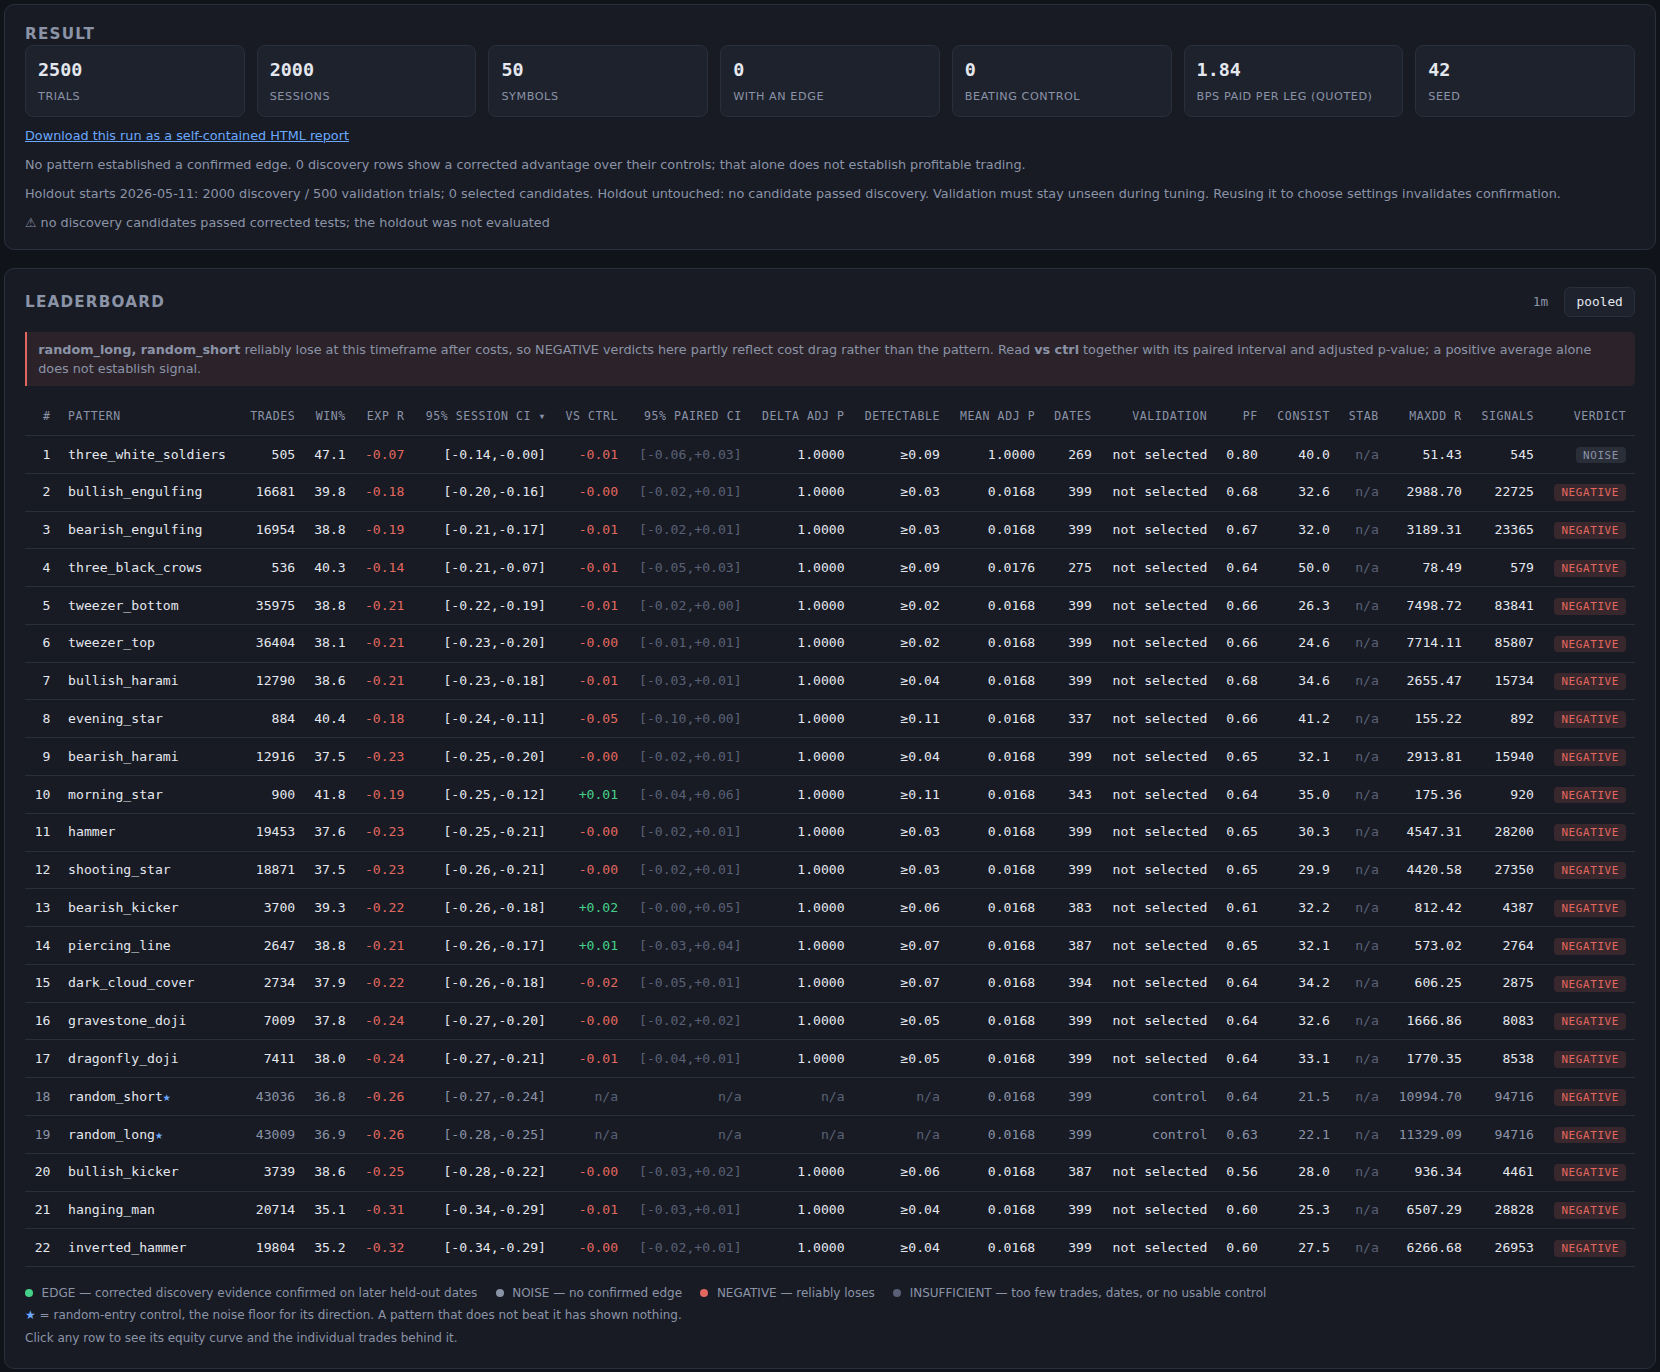
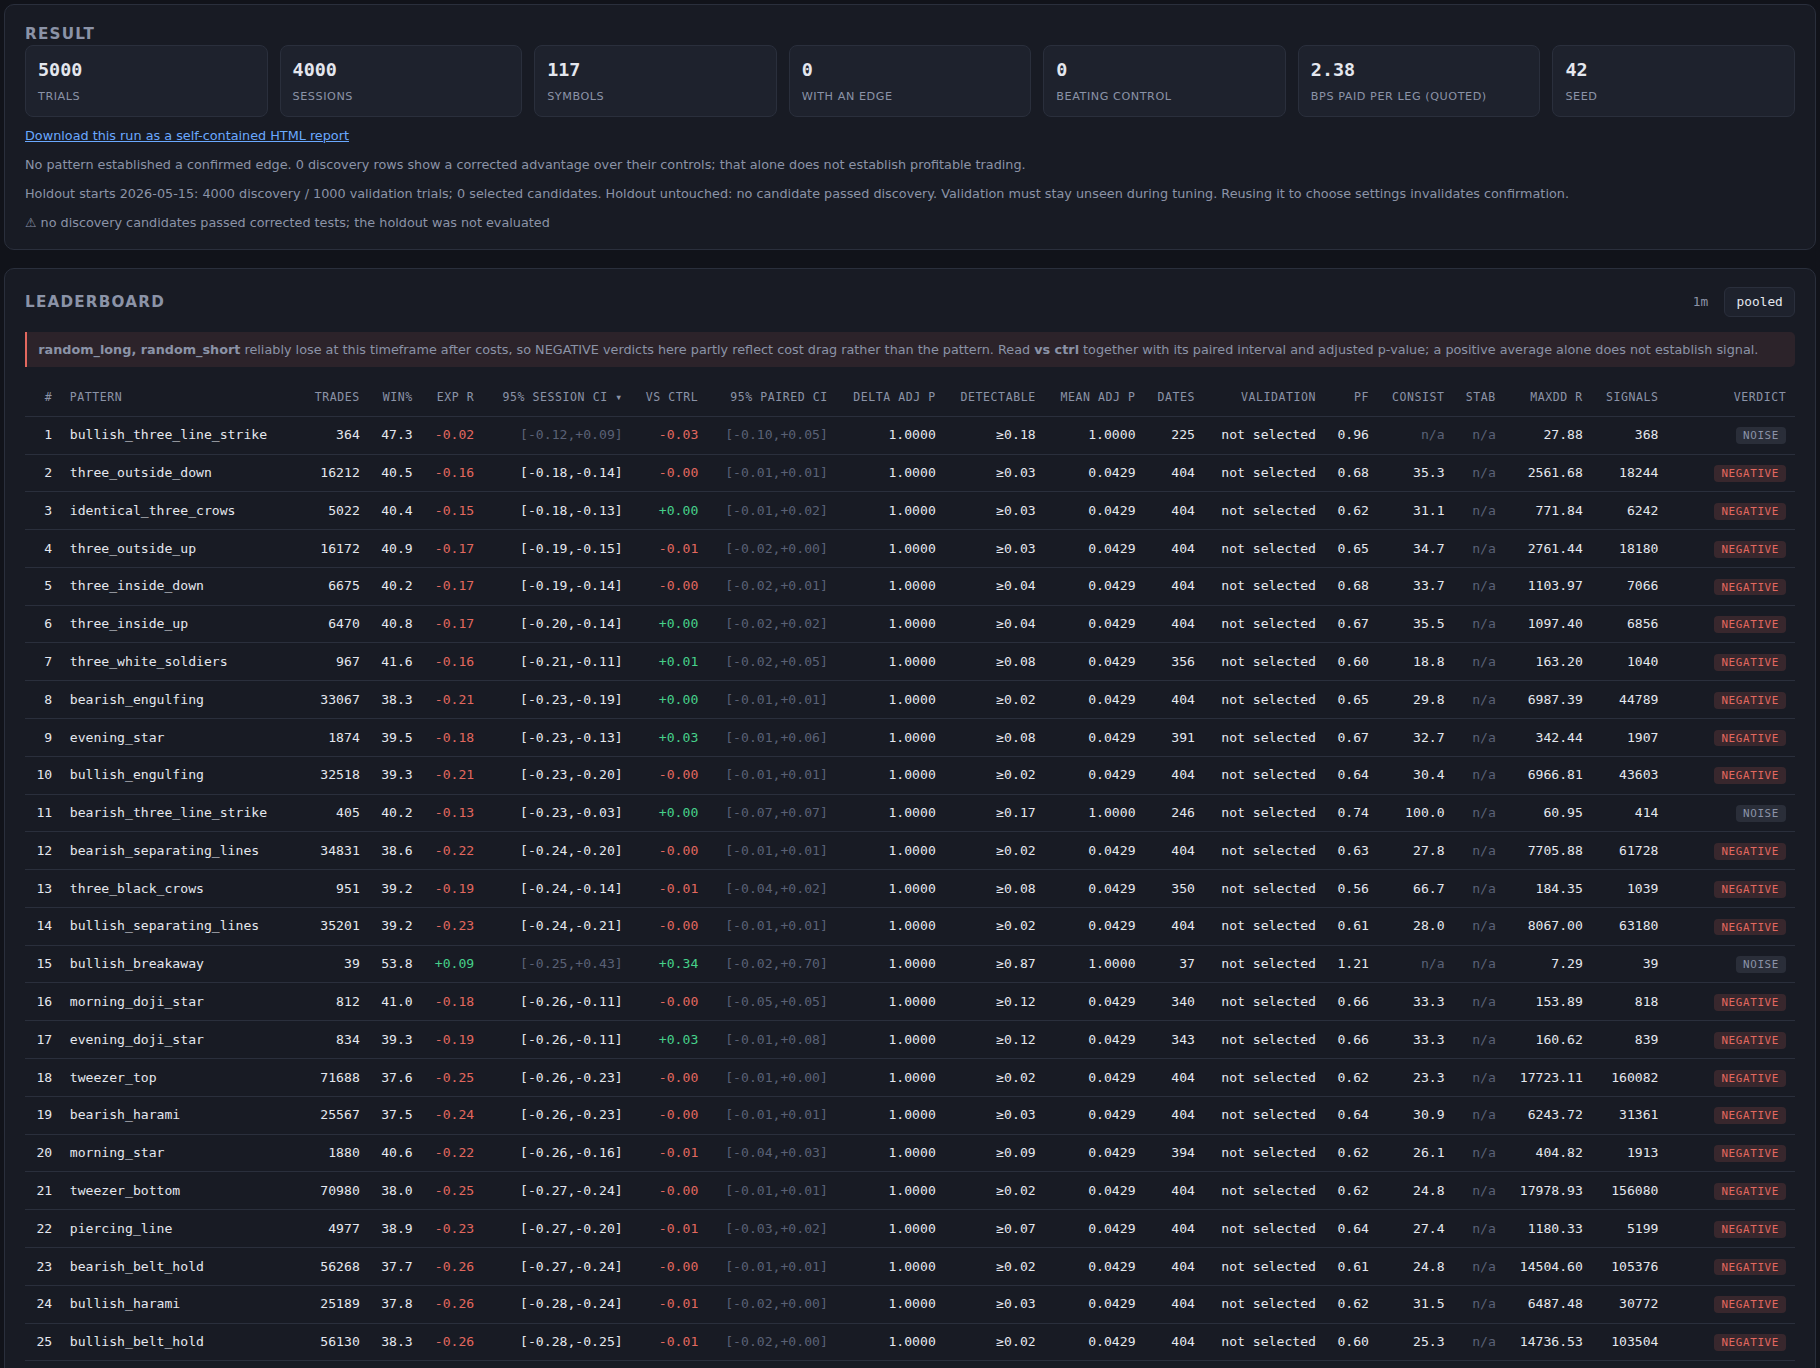
docs(readme): refresh the leaderboard screenshot for the 117-symbol run

diff --git a/README.md b/README.md
@@ -14,7 +14,7 @@ makes money after costs, and holds up on dates it was not chosen on.
 [interactive synthetic demo](https://dpologdvinity.github.io/candlebench/app/demo/) ·
 [results site](https://dpologdvinity.github.io/candlebench/)
 
-![Leaderboard from a two-year, 117-symbol run](docs/images/leaderboard.png)
+![Top of the leaderboard from a two-year, 117-symbol run](docs/images/leaderboard.png)
 
 ## The answer
 
